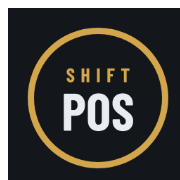
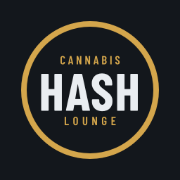
feat: brand the app as Hash Cannabis Lounge
Claude-Session: https://claude.ai/code/session_01H44QRJdPbSi8mt6ac64nQK

diff --git a/app/src/ui/screens/Join.tsx b/app/src/ui/screens/Join.tsx
@@ -49,9 +49,9 @@ export function Join({ token, onDone }: { token: string; onDone: (m: StaffMember
 
   return (
     <div className="main enter"><div className="pad stack">
-      <div className="mark" style={{ alignItems: 'center', padding: '18px 0 6px' }}><span>SHIFT</span>POS</div>
+      <div className="mark" style={{ alignItems: 'center', padding: '18px 0 6px' }}><span>CANNABIS LOUNGE</span>HASH</div>
       {step !== 'pin' ? <>
-        <div className="note">You were invited to the shop’s shift app. Tap below to set up this phone. It only works once.</div>
+        <div className="note">You were invited to the Hash Cannabis Lounge shift app. Tap below to set up this phone. It only works once.</div>
         <button className="blk primary" onClick={join} disabled={step === 'busy'}>{step === 'busy' ? 'Setting up…' : 'Set up this phone'}</button>
       </> : <>
         <div className="note">Welcome, <b>{who?.name}</b> ({who?.role}). Choose a 4-number PIN. You type it every time you open the app.</div>
@@ -69,7 +69,7 @@ export function Join({ token, onDone }: { token: string; onDone: (m: StaffMember
 export function Welcome({ onLocalMode }: { onLocalMode: () => void }) {
   return (
     <div className="main enter"><div className="pad stack">
-      <div className="mark" style={{ alignItems: 'center', padding: '18px 0 6px' }}><span>SHIFT</span>POS</div>
+      <div className="mark" style={{ alignItems: 'center', padding: '18px 0 6px' }}><span>CANNABIS LOUNGE</span>HASH</div>
       <div className="note">Open the <b>invite link</b> the manager sent you on WhatsApp. It sets up this phone for you.</div>
       <p className="muted small">No link? Ask the manager or the boss to send you one from the app (Menu → People).</p>
       <button className="linkbtn" onClick={onLocalMode}>Try it on this phone only (test mode)</button>

diff --git a/app/src/report/pdf.ts b/app/src/report/pdf.ts
@@ -4,6 +4,7 @@ import { displayName, itemLines, shiftFlags, shiftTotals } from '../domain/calc'
 import { formatQty, formatRand } from '../domain/num'
 import type { ShiftData } from '../domain/types'
 import type { Names } from './xlsx'
+import { SHOP } from '../app/brand'
 
 /** The PDF's built-in font has no "−" or "✓". */
 const safe = (s: string) => s.replace(/−/g, '-').replace(/✓/g, 'OK').replace(/ · /g, ', ').replace(/·/g, ',')
@@ -16,7 +17,9 @@ export function buildPdf(d: ShiftData, names: Names = {}): Blob {
   const t = shiftTotals(d)
   const lines = itemLines(d)
   const kind = d.shift.kind === 'day' ? 'Day' : 'Night'
-  doc.setFont('helvetica', 'bold'); doc.setFontSize(16)
+  doc.setFont('helvetica', 'bold'); doc.setFontSize(9); doc.setTextColor(150, 110, 30)
+  doc.text(SHOP.name.toUpperCase() + ' · ' + SHOP.city.toUpperCase(), 14, 10)
+  doc.setTextColor(0, 0, 0); doc.setFontSize(16)
   doc.text(`${kind.toUpperCase()} SHIFT  ${d.shift.date}`, 14, 16)
   doc.setFont('helvetica', 'normal'); doc.setFontSize(9)
   doc.text(safe(`${n(d.shift.openedBy)} -> ${n(d.shift.pinInBy)}   Locked ${d.shift.lockedAt ? new Date(d.shift.lockedAt).toLocaleString('en-ZA', { timeZone: 'Africa/Johannesburg' }) : 'NO'}`), 14, 22)

diff --git a/app/src/ui/kit.tsx b/app/src/ui/kit.tsx
@@ -2,6 +2,7 @@ import { createContext, useContext, useState, type ReactNode } from 'react'
 import { useLiveQuery } from 'dexie-react-hooks'
 import { db, actions } from '../app/store'
 import { supabase } from '../sync/client'
+import { SHOP } from '../app/brand'
 import type { StaffMember } from '../data/db'
 import { createPinGuard, MAX_TRIES } from '../auth/pin'
 import type { ShiftData } from '../domain/types'
@@ -32,7 +33,7 @@ export function Sheet({ title, onClose, children }: { title: ReactNode; onClose:
 }
 
 export function Header({ title, sub }: { title: string; sub?: ReactNode }) {
-  return <div className="hdr"><div className="eyebrow">Shift POS</div><h2>{title}</h2>{sub && <div className="muted small">{sub}</div>}</div>
+  return <div className="hdr"><div className="eyebrow">{SHOP.name}</div><h2>{title}</h2>{sub && <div className="muted small">{sub}</div>}</div>
 }
 
 /* ---------- Data hooks ---------- */

diff --git a/app/src/report/summary.ts b/app/src/report/summary.ts
@@ -1,13 +1,14 @@
 import { shiftFlags, shiftTotals } from '../domain/calc'
 import { formatRand } from '../domain/num'
 import type { ShiftData } from '../domain/types'
+import { SHOP } from '../app/brand'
 
 /** The short message that goes with the files on WhatsApp. */
 export function shareText(d: ShiftData, by: string, names: Record<string, string> = {}): string {
   const t = shiftTotals(d)
   const bad = shiftFlags(d, names).filter(f => f.level === 'bad')
   return [
-    `${d.shift.kind === 'day' ? 'Day' : 'Night'} shift ${d.shift.date} · sent by ${by}`,
+    `${SHOP.name} · ${d.shift.kind === 'day' ? 'Day' : 'Night'} shift ${d.shift.date} · sent by ${by}`,
     `Sales ${formatRand(t.salesCents)} (card ${formatRand(t.cardCents)}, cash ${formatRand(t.cashCents)})`,
     bad.length ? `⚠ ${bad.length} to check: ${bad.map(f => f.text).join('; ')}` : 'Everything adds up ✓',
   ].join('\n')

diff --git a/app/index.html b/app/index.html
@@ -8,9 +8,9 @@
     <meta name="apple-mobile-web-app-capable" content="yes" />
     <meta name="mobile-web-app-capable" content="yes" />
     <meta name="apple-mobile-web-app-status-bar-style" content="black-translucent" />
-    <meta name="apple-mobile-web-app-title" content="Shift POS" />
+    <meta name="apple-mobile-web-app-title" content="Hash Lounge" />
     <meta name="viewport" content="width=device-width, initial-scale=1.0, viewport-fit=cover" />
-    <title>Shift POS</title>
+    <title>Hash Cannabis Lounge</title>
     <meta name="theme-color" content="#13171c" />
     <link rel="preconnect" href="https://fonts.googleapis.com" />
     <link rel="stylesheet" href="https://fonts.googleapis.com/css2?family=Barlow+Condensed:wght@500;600;700&family=Inter:wght@400;500;600&family=IBM+Plex+Mono:wght@400;500&display=swap" />

diff --git a/app/public/sw.js b/app/public/sw.js
@@ -1,5 +1,5 @@
-// Shift POS background helper: opens the app without signal, and shows alerts.
-const CACHE = 'shiftpos-v1'
+// Hash Cannabis Lounge background helper: opens the app without signal, and shows alerts.
+const CACHE = 'shiftpos-v2'
 
 self.addEventListener('install', e => {
   self.skipWaiting()
@@ -37,7 +37,7 @@ self.addEventListener('fetch', e => {
 })
 
 self.addEventListener('push', e => {
-  let d = { title: 'Shift POS', body: '', tag: 'shiftpos' }
+  let d = { title: 'Hash Lounge', body: '', tag: 'shiftpos' }
   try { d = { ...d, ...e.data.json() } } catch { /* plain message */ }
   e.waitUntil(self.registration.showNotification(d.title, {
     body: d.body, tag: d.tag, renotify: true, icon: '/icon-192.png', badge: '/icon-192.png',

diff --git a/app/src/ui/screens/People.tsx b/app/src/ui/screens/People.tsx
@@ -15,7 +15,7 @@ async function invite(me: StaffMember, m: StaffMember): Promise<string> {
   const { error } = await supabase!.from('invites').insert({ token: t, staff_id: m.id, created_by: me.id })
   if (error) throw error
   const link = `${location.origin}/?join=${t}`
-  const text = `Hi ${m.name}, this is your invite to the shop's shift app. Open it on your phone (works once, for 7 days): ${link}`
+  const text = `Hi ${m.name}, this is your invite to the Hash Cannabis Lounge shift app. Open it on your phone (works once, for 7 days): ${link}`
   const wa = digits(m.phone) ? `https://wa.me/${digits(m.phone)}?text=${encodeURIComponent(text)}` : `https://wa.me/?text=${encodeURIComponent(text)}`
   window.open(wa, '_blank', 'noopener')
   return link

diff --git a/app/src/ui/screens/Setup.tsx b/app/src/ui/screens/Setup.tsx
@@ -19,7 +19,7 @@ export function Setup({ onDone }: { onDone: (m: StaffMember) => void }) {
   }
   return (
     <div className="pad stack enter">
-      <div className="mark" style={{ alignItems: 'center', padding: '18px 0 6px' }}><span>SHIFT</span>POS</div>
+      <div className="mark" style={{ alignItems: 'center', padding: '18px 0 6px' }}><span>CANNABIS LOUNGE</span>HASH</div>
       <div className="note">Set up this phone. You only do this once. Each person signs in with their own 4-number PIN.</div>
       <label className="lbl" htmlFor="su-name">Your name</label>
       <input id="su-name" value={name} onChange={e => setName(e.target.value)} autoComplete="name" />

diff --git a/app/src/report/xlsx.ts b/app/src/report/xlsx.ts
@@ -1,4 +1,5 @@
 import ExcelJS from 'exceljs'
+import { SHOP } from '../app/brand'
 import { displayName, itemLines, shiftFlags, shiftTotals } from '../domain/calc'
 import type { ShiftData } from '../domain/types'
 
@@ -11,7 +12,7 @@ export async function buildXlsxBuffer(d: ShiftData, names: Names = {}): Promise<
   const n = (id?: string) => (id ? names[id] ?? id : '')
   const t = shiftTotals(d)
   const wb = new ExcelJS.Workbook()
-  wb.creator = 'Shift POS'
+  wb.creator = SHOP.name
   const head = (ws: ExcelJS.Worksheet) => { ws.getRow(1).font = { bold: true }; ws.views = [{ state: 'frozen', ySplit: 1 }] }
 
   const sum = wb.addWorksheet('Summary')

diff --git a/app/src/styles/app.css b/app/src/styles/app.css
@@ -51,7 +51,7 @@ select, input { width: 100%; min-height: 48px; background: var(--steel); border:
 /* Sign in */
 .pinwrap { align-items: center; text-align: center; padding-top: 28px }
 .mark { font: 700 44px/.9 var(--f-display); letter-spacing: .04em; display: flex; flex-direction: column }
-.mark span { font-size: 16px; letter-spacing: .5em; color: var(--accent); margin-bottom: 4px }
+.mark span { font-size: 13px; letter-spacing: .32em; color: var(--accent); margin-bottom: 4px }
 .who { display: grid; gap: 8px; width: 100% }
 .who .blk.on { border-color: var(--accent); color: var(--accent) }
 .dots { display: flex; gap: 14px; margin: 6px 0 }

diff --git a/app/src/ui/App.tsx b/app/src/ui/App.tsx
@@ -73,7 +73,7 @@ function Shell() {
   else if (staffCount === 0) body = supabase && !localMode ? <Welcome onLocalMode={() => setLocalMode(true)} /> : <Setup onDone={setMe} />
   else if (!me) body = (
     <div className="main enter"><div className="pad stack pinwrap">
-      <div className="mark"><span>SHIFT</span>POS</div>
+      <div className="mark"><span>CANNABIS LOUNGE</span>HASH</div>
       <PinPad people={deviceId ? staff.filter(s => s.id === deviceId) : staff} onOk={m => setMe(m)} />
     </div></div>)
   else if (reportId && data) body = <Report data={data} me={me} onDone={lead ? () => setReportId(null) : signOut} />

diff --git a/app/src/app/brand.ts b/app/src/app/brand.ts
@@ -1,0 +1,2 @@
+/** The shop this copy of the app is for. Shown in headers, reports, invites and alerts. */
+export const SHOP = { name: 'Hash Cannabis Lounge', short: 'Hash Lounge', city: 'Bloemfontein' }
